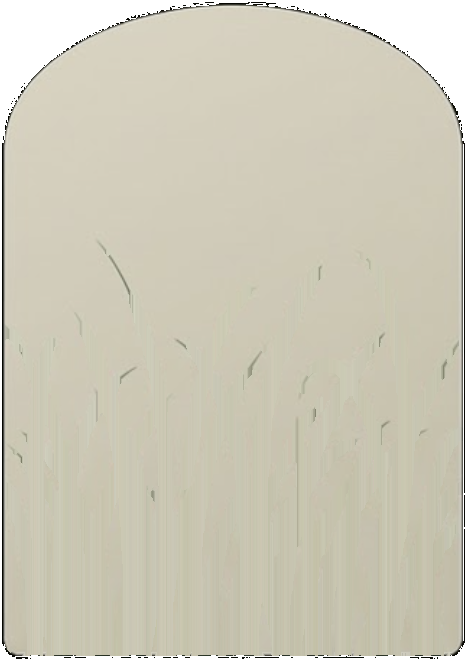
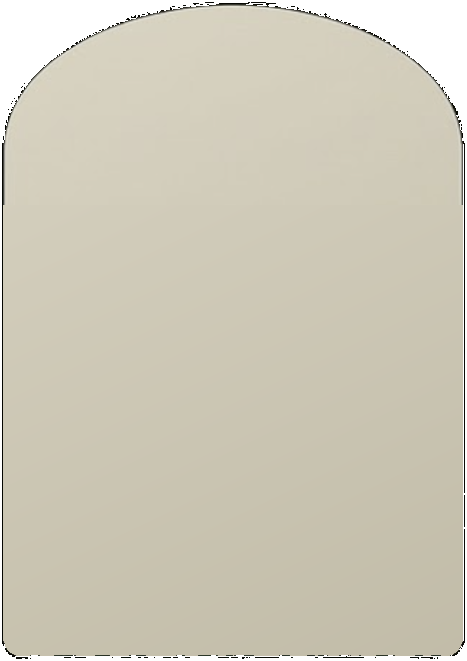
Finished graphics?

diff --git a/src/components/Tombstone.tsx b/src/components/Tombstone.tsx
@@ -22,31 +22,49 @@ export default function Tombstone({ fragment, onSelect, index }: Props) {
         delay: (index % 6) * 0.07,
         ease: [0.16, 1, 0.3, 1],
       }}
-      aria-label={`Read the fragment "${fragment.title}" — hover or focus to part the grass`}
+      aria-label={`Read the fragment "${fragment.title}" — hover or focus to clear the grass and read the epitaph`}
     >
-      <span className="tombstone__stone">
-        <img className="tombstone__art" src="/tombstone-stone.png" alt="" aria-hidden="true" />
-        <span className="tombstone__stone-top">
-          <span className="tombstone__rip">Here Lies</span>
-          <span className="tombstone__title">{fragment.title}</span>
-          <span className="tombstone__years">{fragment.years}</span>
-          <span className="tombstone__rule" aria-hidden="true" />
+      <span className="tombstone__grave">
+        <span className="tombstone__stone">
+          <img className="tombstone__art" src="/tombstone-stone.png" alt="" aria-hidden="true" />
+          <span className="tombstone__stone-top">
+            <span className="tombstone__rip">Here Lies</span>
+            <span className="tombstone__title">{fragment.title}</span>
+            <span className="tombstone__years">{fragment.years}</span>
+            <span className="tombstone__rule" aria-hidden="true" />
+          </span>
+          <span className="tombstone__cause">{fragment.causeOfDeath}</span>
+          <img className="tombstone__grass" src="/tombstone-grass.png" alt="" aria-hidden="true" />
         </span>
-        <span className="tombstone__cause">{fragment.causeOfDeath}</span>
-        <img
-          className="tombstone__grass tombstone__grass--left"
-          src="/tombstone-grass-left.png"
-          alt=""
+        <svg
+          className="tombstone__mound"
+          viewBox="0 0 300 42"
+          preserveAspectRatio="none"
           aria-hidden="true"
-        />
-        <img
-          className="tombstone__grass tombstone__grass--right"
-          src="/tombstone-grass-right.png"
-          alt=""
-          aria-hidden="true"
-        />
+        >
+          <defs>
+            <linearGradient id={`dirt-${fragment.id}`} x1="0" y1="0" x2="0" y2="1">
+              <stop offset="0%" stopColor="#5a4530" />
+              <stop offset="100%" stopColor="#382a1c" />
+            </linearGradient>
+          </defs>
+          <path
+            d="M0,42 L0,24 C14,8 28,20 42,12 C58,2 70,18 88,10 C108,0 122,16 142,8 C160,1 172,14 190,9 C210,3 224,17 244,10 C262,4 276,15 288,11 C296,8 300,14 300,22 L300,42 Z"
+            fill={`url(#dirt-${fragment.id})`}
+          />
+          <path
+            d="M30,22 C44,14 54,20 60,16 M120,14 C132,8 142,13 150,10 M210,15 C222,9 234,13 242,11"
+            stroke="#241a10"
+            strokeWidth="2"
+            strokeLinecap="round"
+            fill="none"
+            opacity="0.55"
+          />
+          <ellipse cx="95" cy="18" rx="7" ry="4" fill="#241a10" opacity="0.4" />
+          <ellipse cx="205" cy="21" rx="9" ry="4.5" fill="#241a10" opacity="0.35" />
+          <ellipse cx="150" cy="12" rx="5" ry="3" fill="#6b5238" opacity="0.6" />
+        </svg>
       </span>
-      <span className="tombstone__mound" aria-hidden="true" />
     </motion.button>
   );
 }

diff --git a/src/components/Tombstone.css b/src/components/Tombstone.css
@@ -10,18 +10,25 @@
   color: inherit;
 }
 
-.tombstone__stone {
-  position: relative;
+.tombstone__grave {
+  display: flex;
+  flex-direction: column;
+  align-items: center;
   width: 100%;
-  aspect-ratio: 467 / 661;
   transition: transform 0.3s var(--ease-out), filter 0.3s var(--ease-out);
   filter: drop-shadow(0 12px 24px rgba(0, 0, 0, 0.35));
 }
 
-.tombstone:hover .tombstone__stone,
-.tombstone:focus-visible .tombstone__stone {
+.tombstone:hover .tombstone__grave,
+.tombstone:focus-visible .tombstone__grave {
   transform: translateY(-6px) rotate(-0.6deg);
   filter: drop-shadow(0 20px 34px rgba(0, 0, 0, 0.45));
+}
+
+.tombstone__stone {
+  position: relative;
+  width: 100%;
+  aspect-ratio: 467 / 661;
 }
 
 .tombstone__art {
@@ -37,34 +44,23 @@
 
 .tombstone__grass {
   position: absolute;
-  inset: 0;
+  left: 0%;
+  top: 34.19%;
   width: 100%;
-  height: 100%;
+  height: 65.66%;
   object-fit: fill;
   display: block;
   pointer-events: none;
   z-index: 2;
-  transition: transform 0.5s var(--ease-out), opacity 0.5s var(--ease-out);
+  transform-origin: 50% 100%;
+  transition: opacity 0.7s ease, transform 0.7s ease, filter 0.7s ease;
 }
 
-.tombstone__grass--left {
-  transform-origin: 0% 100%;
-}
-
-.tombstone__grass--right {
-  transform-origin: 100% 100%;
-}
-
-.tombstone:hover .tombstone__grass--left,
-.tombstone:focus-visible .tombstone__grass--left {
-  transform: translate(-14%, 5%) rotate(-9deg);
+.tombstone:hover .tombstone__grass,
+.tombstone:focus-visible .tombstone__grass {
   opacity: 0;
-}
-
-.tombstone:hover .tombstone__grass--right,
-.tombstone:focus-visible .tombstone__grass--right {
-  transform: translate(14%, 5%) rotate(9deg);
-  opacity: 0;
+  transform: scale(0.96);
+  filter: blur(3px);
 }
 
 .tombstone__stone-top {
@@ -139,15 +135,12 @@
 
 .tombstone__mound {
   display: block;
-  width: 72%;
-  height: 10px;
-  margin-top: 4px;
-  background: radial-gradient(
-    ellipse at center,
-    rgba(20, 30, 22, 0.4) 0%,
-    transparent 75%
-  );
-  border-radius: 50%;
+  width: 112%;
+  height: 34px;
+  margin-top: -20px;
+  position: relative;
+  z-index: 3;
+  filter: drop-shadow(0 6px 8px rgba(0, 0, 0, 0.4));
 }
 
 @media (prefers-reduced-motion: reduce) {
